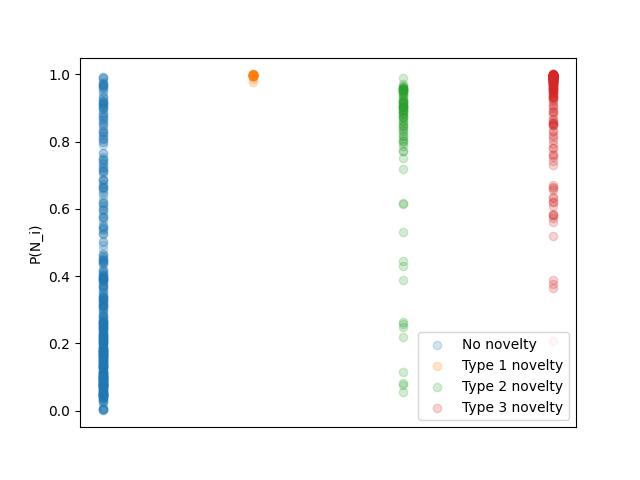
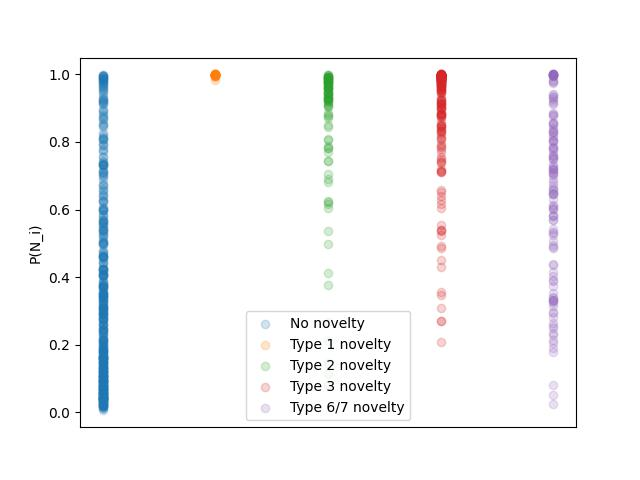
toplevel changes

diff --git a/toplevel/__init__.py b/toplevel/__init__.py
@@ -20,7 +20,7 @@ import os
 
 class TopLevelApp:
     def __init__(self, ensemble_path, data_root, pretrained_unsupervised_module_path, pretrained_backbone_path, 
-        feedback_enabled, given_detection, log, log_dir, ignore_verb_novelty, train_csv_path, val_csv_path,
+        feedback_enabled, given_detection, log, log_dir, ignore_verb_novelty, train_csv_path, val_csv_path, val_incident_csv_path,
         trial_size, trial_batch_size, retraining_batch_size, disable_retraining):
 
         if not Path(ensemble_path).exists():
@@ -35,6 +35,7 @@ class TopLevelApp:
         self.data_root = data_root
         self.train_csv_path = train_csv_path
         self.val_csv_path = val_csv_path
+        self.val_incident_csv_path = val_incident_csv_path
         self.pretrained_backbone_path = pretrained_backbone_path
         self.pretrained_unsupervised_module_path = pretrained_unsupervised_module_path
         self.NUM_SUBJECT_CLASSES = 5
@@ -42,7 +43,7 @@ class TopLevelApp:
         self.NUM_VERB_CLASSES = 8
         self.NUM_SPATIAL_FEATURES = 2 * 36
         self.post_red = False
-        self.p_type_dist = torch.tensor([0.25, 0.25, 0.25, 0.25]) if not ignore_verb_novelty else torch.tensor([1/3, 0, 1/3, 1/3])
+        self.p_type_dist =torch.tensor([0.20, 0.20, 0.20, 0.20, 0.20]) if not ignore_verb_novelty else torch.tensor([1/3, 0, 1/3, 1/3])
         self.all_query_masks = torch.tensor([])
         self.all_feedback = torch.tensor([])
         self.all_p_ni = torch.tensor([])
@@ -98,12 +99,12 @@ class TopLevelApp:
             'object_ymin', 'object_xmin', 'object_ymax', 'object_xmax'])
         self.retraining_batch_size = retraining_batch_size
         self.disable_retraining = disable_retraining
-        
+                
         self._reset_backbone_and_detectors()
         
     def reset(self):
         self.post_red = False
-        self.p_type_dist = torch.tensor([0.25, 0.25, 0.25, 0.25]) if not self.ignore_verb_novelty else torch.tensor([1/3, 0, 1/3, 1/3])
+        self.p_type_dist = torch.tensor([0.20, 0.20, 0.20, 0.20, 0.20]) if not self.ignore_verb_novelty else torch.tensor([1/3, 0, 1/3, 1/3])
         self.unsupervised_aucs = [None, None, None]
         self.supervised_aucs = [None, None, None]
         self.all_query_masks = torch.tensor([])
@@ -135,7 +136,6 @@ class TopLevelApp:
 
         self.batch_num += 1
         self.batch_context.reset()
-
         # initialize data loaders
         scg_data_loader, novelty_dataset, N, image_paths, df = self._load_data(csv_path)
         self.batch_context.df = df
@@ -144,7 +144,7 @@ class TopLevelApp:
         scg_preds, _, _, _ = self.scg_ensemble.get_top3_SVOs(scg_data_loader, False)
 
         # unsupervised novelty scores
-        unsupervised_results = self.und_manager.score(self.backbone, novelty_dataset)
+        unsupervised_results, incident_activation_statistical_scores = self.und_manager.score(self.backbone, novelty_dataset)
 
         subject_novelty_scores_u = unsupervised_results['subject_novelty_score']
         verb_novelty_scores_u = unsupervised_results['verb_novelty_score']
@@ -155,16 +155,17 @@ class TopLevelApp:
         self.verb_novelty_scores_un += verb_novelty_scores_u
         self.obj_novelty_scores_un += object_novelty_scores_u
 
+
         # compute P_n                        
         with torch.no_grad():
             case_1_lr, case_2_lr, case_3_lr = self.und_manager.get_calibrators()
             batch_p_type, p_ni = compute_probability_novelty(subject_novelty_scores_u, verb_novelty_scores_u, object_novelty_scores_u, 
-                case_1_lr, case_2_lr, case_3_lr, ignore_t2_in_pni=self.ignore_verb_novelty, p_t4=unsupervised_results['p_t4'])
+                incident_activation_statistical_scores, case_1_lr, case_2_lr, case_3_lr, ignore_t2_in_pni=self.ignore_verb_novelty, p_t4=unsupervised_results['p_t4'])
 
         p_ni = p_ni.cpu().float()            
         batch_p_type = batch_p_type.cpu()
         self.per_image_p_type = torch.cat([self.per_image_p_type, batch_p_type])
-        
+
         top3 = None
         top3_probs = None
                 
@@ -172,6 +173,7 @@ class TopLevelApp:
             top3, top3_probs = self._top3(scg_preds, p_ni, novelty_dataset, batch_p_type)
         else:
             top3, top3_probs = self._top3_given_detection(scg_preds, p_ni, novelty_dataset, batch_p_type, img_paths)
+        
         
         self.batch_context.p_ni = p_ni
         self.batch_context.subject_novelty_scores_u = subject_novelty_scores_u
@@ -295,16 +297,21 @@ class TopLevelApp:
     def _top3(self, scg_preds, p_ni, novelty_dataset, batch_p_type):
         top3 = None
         top3_probs = None
-    
-        if self.t_tn is None:
-            top3 = [[e[0] for e in m] for m in scg_preds]
-            top3_probs = [[e[1] for e in m] for m in scg_preds]    
-        else:
-            assert self.post_red
-            top3_und = self.und_manager.top3(self.backbone, novelty_dataset, batch_p_type, self.p_type_dist)
-            merged = self._merge_top3_SVOs(scg_preds, top3_und, p_ni)
-            top3 = [[e[0] for e in m] for m in merged]
-            top3_probs = [[e[1] for e in m] for m in merged]         
+        import ipdb; ipdb.set_trace()
+        top3_und = self.und_manager.top3(self.backbone, novelty_dataset, batch_p_type, self.p_type_dist)
+        merged = self._merge_top3_SVOs(scg_preds, top3_und, p_ni)
+        top3 = [[e[0] for e in m] for m in merged]
+        top3_probs = [[e[1] for e in m] for m in merged]     
+        # if self.t_tn is None:
+        #     top3 = [[e[0] for e in m] for m in scg_preds]
+        #     top3_probs = [[e[1] for e in m] for m in scg_preds]    
+        # else:
+        #     assert self.post_red
+        #     import ipdb; ipdb.set_trace()
+        #     top3_und = self.und_manager.top3(self.backbone, novelty_dataset, batch_p_type, self.p_type_dist)
+        #     merged = self._merge_top3_SVOs(scg_preds, top3_und, p_ni)
+        #     top3 = [[e[0] for e in m] for m in merged]
+        #     top3_probs = [[e[1] for e in m] for m in merged]         
                        
         return top3, top3_probs
                        
@@ -327,7 +334,7 @@ class TopLevelApp:
                 p_ni_for_top3 = np.copy(p_ni)
                 p_ni_for_top3[:idx] = 0
                 top3_und = self.und_manager.top3(self.backbone, novelty_dataset, batch_p_type, self.p_type_dist)
-                merged = self._merge_top3_SVOs(scg_preds, top3_und, p_ni_for_top3)
+                # merged = self._merge_top3_SVOs(scg_preds, top3_und, p_ni_for_top3)
                 top3 = [[e[0] for e in m] for m in merged]
                 top3_probs = [[e[1] for e in m] for m in merged] 
             else:
@@ -514,7 +521,6 @@ class TopLevelApp:
             self.NUM_OBJECT_CLASSES, 
             self.NUM_SPATIAL_FEATURES,
             0.98)        
-        # import ipdb; ipdb.set_trace()
         if 'resnet' in self.pretrained_backbone_path:
             backbone = resnet50(weights= None) #resnet50(pretrained = False)  weights="IMAGENET1K_V1"
             backbone.fc = torch.nn.Linear(backbone.fc.weight.shape[1], 256)
@@ -534,7 +540,7 @@ class TopLevelApp:
         self.backbone = backbone
 
         # import ipdb; ipdb.set_trace()
-        self.novelty_trainer = NoveltyDetectorTrainer(self.data_root, self.train_csv_path, self.val_csv_path, self.retraining_batch_size, model_)
+        self.novelty_trainer = NoveltyDetectorTrainer(self.data_root, self.train_csv_path, self.val_csv_path, self.val_incident_csv_path, self.retraining_batch_size, model_)
 
     def _retrain_supervised_detectors(self):
         t_star = torch.argmax(self.p_type_dist) + 1

diff --git a/toplevel/util.py b/toplevel/util.py
@@ -1,7 +1,7 @@
 import torch
 from unsupervisednoveltydetection import UnsupervisedNoveltyDetector, ThresholdTrialLevelPType
 from noveltydetection.utils import Case1LogisticRegression, Case2LogisticRegression, Case3LogisticRegression
-from unsupervisednoveltydetection.common import ClassifierV2
+from unsupervisednoveltydetection.common import ClassifierV2, ActivationStatisticalModel
 
 
 class BatchContext:
@@ -60,9 +60,17 @@ class UnsupervisedNoveltyDetectionManager:
 
         classifier = ClassifierV2(256, num_subject_classes, num_object_classes, num_verb_classes, num_spatial_features)
         self.detector = UnsupervisedNoveltyDetector(classifier, num_subject_classes, num_object_classes, num_verb_classes)
+        
+
         state_dict = torch.load(pretrained_path)
         self.detector.load_state_dict(state_dict['module'])
         self.detector = self.detector.to('cuda:0')
+        if 'resnet' in pretrained_path:
+            model_ = 'resnet'
+        else:
+            model_ = 'swin_t'
+        self.activation_statistical_model = ActivationStatisticalModel(model_).to('cuda:0')
+        self.activation_statistical_model.load_state_dict(state_dict['activation_statistical_model'])
         
         self.case_1_logistic_regression = Case1LogisticRegression()
         self.case_1_logistic_regression.load_state_dict(state_dict['case_1_logistic_regression'])
@@ -86,7 +94,7 @@ class UnsupervisedNoveltyDetectionManager:
         verb_box_features = []
         
         with torch.no_grad():
-            for example_spatial_features, _, _, _, _, _, _, example_subject_images, example_object_images, example_verb_images in dataset:
+            for example_spatial_features, _, _, _, _, _, _, example_subject_images, example_object_images, example_verb_images, whole_images in dataset:
                 spatial_feature = example_spatial_features if example_spatial_features is not None else None
                 subject_feature = backbone(example_subject_images.unsqueeze(0)).squeeze(0) if example_subject_images is not None else None
                 object_feature = backbone(example_object_images.unsqueeze(0)).squeeze(0) if example_object_images is not None else None
@@ -96,13 +104,20 @@ class UnsupervisedNoveltyDetectionManager:
                 subject_box_features.append(subject_feature)
                 object_box_features.append(object_feature)
                 verb_box_features.append(verb_feature)
-    
+
             op = ThresholdTrialLevelPType(trial_p_type, self.p_type_alpha)
 
             top3 = self.detector.top3(spatial_features, subject_box_features, verb_box_features, 
                 object_box_features, batch_p_type, op)
+        import ipdb; ipdb.set_trace()
+        for preds in top3['top3']:
+            for p in preds:
+                print(p)
+                
 
-        assert not any([any([torch.isnan(p[1]).item() for p in preds]) for preds in top3['top3']]), "NaNs in unsupervied detector's top-3"
+        import ipdb; ipdb.set_trace()
+
+        assert not any([any([torch.isnan(p[1]) for p in preds]) for preds in top3['top3']]), "NaNs in unsupervied detector's top-3"
                 
         for i, p in enumerate(top3['top3']):
             new_p = []
@@ -124,16 +139,18 @@ class UnsupervisedNoveltyDetectionManager:
 
             top3['top3'][i] = new_p
             
-        return top3['top3']    
+        return top3   
 
     def score(self, backbone, dataset):
         spatial_features = []
         subject_box_features = []
         object_box_features = []
         verb_box_features = []
+        # whole_image_features = []
+        incident_activation_statistical_scores = []
         
         with torch.no_grad():
-            for example_spatial_features, _, _, _, _, _, _, example_subject_images, example_object_images, example_verb_images in dataset:
+            for example_spatial_features, _, _, _, _, _, _, example_subject_images, example_object_images, example_verb_images, whole_images  in dataset:
                 spatial_feature = example_spatial_features if example_spatial_features is not None else None
                 subject_feature = backbone(example_subject_images.unsqueeze(0)).squeeze(0) if example_subject_images is not None else None
                 object_feature = backbone(example_object_images.unsqueeze(0)).squeeze(0) if example_object_images is not None else None
@@ -142,9 +159,16 @@ class UnsupervisedNoveltyDetectionManager:
                 spatial_features.append(spatial_feature)
                 subject_box_features.append(subject_feature)
                 object_box_features.append(object_feature)
-                verb_box_features.append(verb_feature)
-    
+                verb_box_features.append(verb_feature)    
+
+                whole_image_features = self.activation_statistical_model.compute_features(backbone, whole_images.unsqueeze(0))
+                incident_activation_statistical_scores.append(self.activation_statistical_model.score(whole_image_features).squeeze(0))
+        
+                            
             results = self.detector.scores_and_p_t4(spatial_features, subject_box_features, verb_box_features, 
                 object_box_features)
+            
+            # results_top3 = self.detector.top3(spatial_features, subject_box_features, verb_box_features, 
+            #     object_box_features)
 
-        return results
+        return results, incident_activation_statistical_scores

diff --git a/unsupervisednoveltydetection/training.py b/unsupervisednoveltydetection/training.py
@@ -334,8 +334,10 @@ def separate_by_case(novelty_feature_dataset):
     # the case 3 novelty type logistic regression during calibration. This
     # check was eliminated when updating to phase 3. We could reimplement it,
     # but it's not clear whether it's helpful.
+    
     for spatial_encodings, _, _, _, subject_label, object_label, verb_label, subject_box_image, object_box_image, verb_box_image, whole_image in novelty_feature_dataset:
         # Add the images and labels to the case inputs
+        
         if subject_box_image is not None and object_box_image is not None:
             # All boxes present; append images to case 1
             case_1_images.append(torch.stack((subject_box_image, object_box_image, verb_box_image, whole_image), dim = 0))
@@ -368,7 +370,8 @@ def separate_by_case(novelty_feature_dataset):
             # At least the object box is present; append object box image to case 3
             case_3_images.append(torch.stack((object_box_image, whole_image), dim = 0))
             case_3_labels.append(object_label)
-
+       
+    
     case_1_images = torch.stack(case_1_images, dim = 0)
     case_1_spatial_encodings = torch.stack(case_1_spatial_encodings, dim = 0)
     case_1_labels = torch.stack(case_1_labels, dim = 0)
@@ -612,6 +615,7 @@ class NoveltyDetectorTrainer:
 
         # Next, also using the val dataset, separate the instances by case
         # and label them by type.
+
         case_1_val_dataset, case_2_val_dataset, case_3_val_dataset = separate_by_case(val_dataset)
         case_1_val_novelty_type_dataset = to_case_1_novelty_type_dataset(case_1_val_dataset)
         case_2_val_novelty_type_dataset = to_case_2_novelty_type_dataset(case_2_val_dataset)

diff --git a/session/osu_interface.py b/session/osu_interface.py
@@ -6,7 +6,7 @@ from toplevel import TopLevelApp
 
 class OSUInterface:
     def __init__(self, scg_ensemble, data_root, pretrained_unsupervised_novelty_path, pretrained_backbone_path, 
-        feedback_enabled, given_detection, log, log_dir, ignore_verb_novelty, train_csv_path, val_csv_path, 
+        feedback_enabled, given_detection, log, log_dir, ignore_verb_novelty, train_csv_path, val_csv_path, val_incident_csv_path,
         trial_batch_size, trial_size, retraining_batch_size, disable_retraining):
 
         self.app = TopLevelApp(ensemble_path=scg_ensemble, 
@@ -20,6 +20,7 @@ class OSUInterface:
             ignore_verb_novelty=ignore_verb_novelty,
             train_csv_path=train_csv_path,
             val_csv_path=val_csv_path,
+            val_incident_csv_path = val_incident_csv_path,
             trial_size=trial_size,
             trial_batch_size=trial_batch_size,
             retraining_batch_size=retraining_batch_size,
@@ -88,6 +89,7 @@ class OSUInterface:
 
         csv_path = self.temp_path.joinpath(f'{os.getpid()}_batch_{round_id}.csv')
         df.to_csv(csv_path, index=True)
+        
         
         ret = self.app.process_batch(csv_path, test_id, round_id, df['new_image_path'].to_list())
         p_ni = ret['p_ni']

diff --git a/main.py b/main.py
@@ -19,6 +19,7 @@ if __name__ == "__main__":
     p.add_argument('--given-detection', default=False, action='store_true')
     p.add_argument('--train-csv-path', default='./dataset_v4/dataset_v4_2_train.csv')
     p.add_argument('--val-csv-path', default='./dataset_v4/dataset_v4_2_val.csv')
+    p.add_argument('--val-incident-csv-path', default='./dataset_v4/dataset_v4_val_incident.csv')
     p.add_argument('--trial-size', type=int, default=600)
     p.add_argument('--trial-batch-size', type=int, default=10)
     p.add_argument('--retraining-batch-size', type=int, default=80)
@@ -58,6 +59,7 @@ if __name__ == "__main__":
         ignore_verb_novelty=args.ignore_verb_novelty, 
         train_csv_path=args.train_csv_path,
         val_csv_path=args.val_csv_path,
+        val_incident_csv_path=args.val_incident_csv_path,
         trial_size=args.trial_size,
         trial_batch_size=args.trial_batch_size,
         retraining_batch_size=args.retraining_batch_size,

diff --git a/unsupervisednoveltydetection/__init__.py b/unsupervisednoveltydetection/__init__.py
@@ -563,6 +563,7 @@ class UnsupervisedNoveltyDetector:
     def top3(self, spatial_features, subject_appearance_features, verb_appearance_features, object_appearance_features, p_type, trial_level_p_type_strategy = None):
         # Revise per-instance p_type using trial_level_p_type_strategy, if not
         # None
+        import ipdb; ipdb.set_trace()
         if trial_level_p_type_strategy is not None:
             p_type = trial_level_p_type_strategy.revise_p_type(p_type)
         
